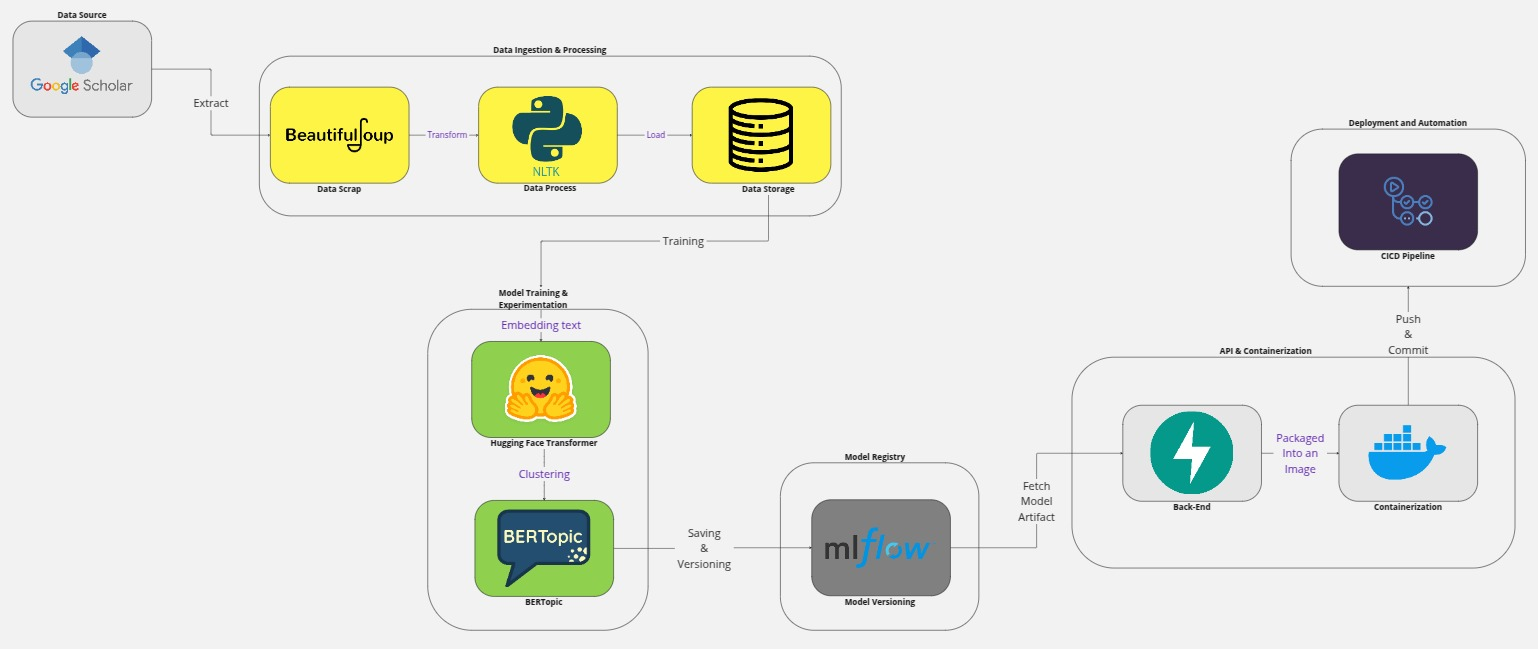
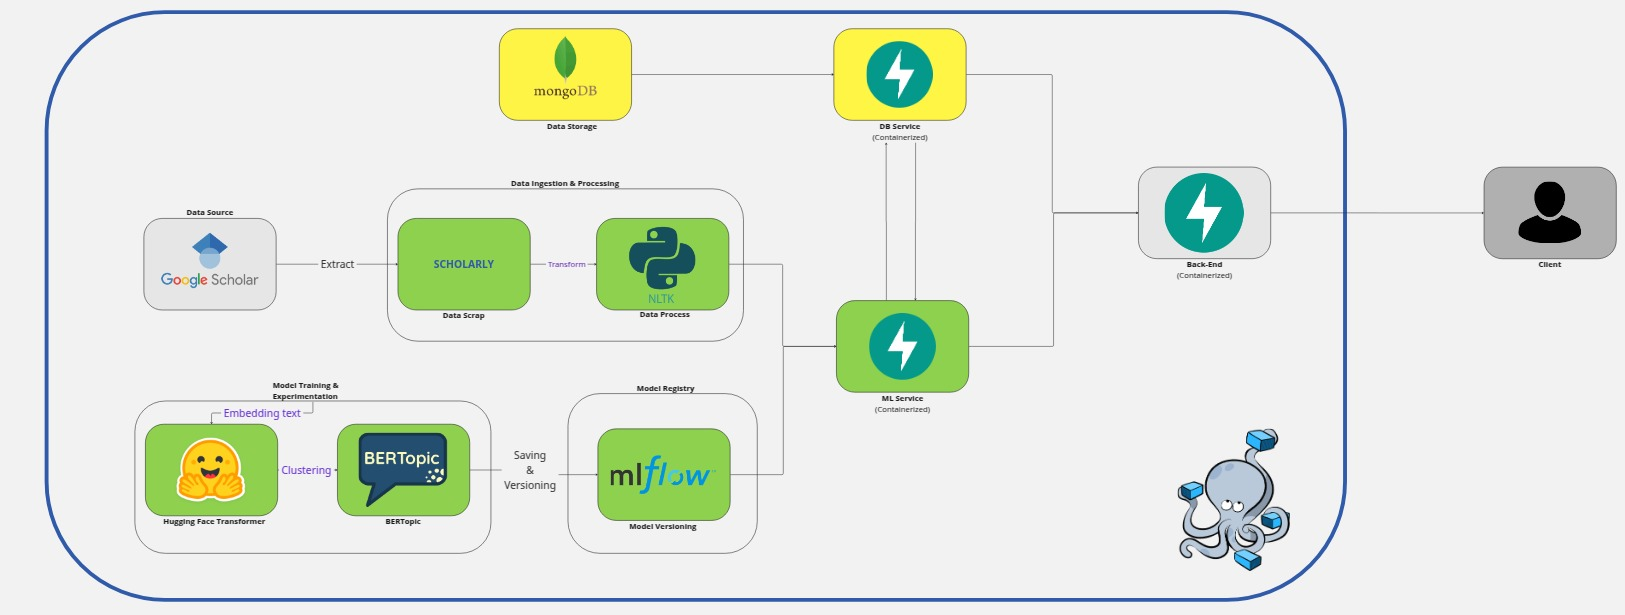
feat(readme) : updated the system architecture and added API documentation to the readme

diff --git a/README.md b/README.md
@@ -17,20 +17,43 @@ We take journal data more precisely in 2024 using sources from https://scholar.g
 **Journalyze** follows a structured directory organization to maintain clarity and modularity. Below is an overview of the project directory structure:
 <pre>
 .
+├── MLOps-Architecture.jpg
+├── Makefile
 ├── README.md
 ├── data
-│   ├── scholar_results.txt
-│   └── test_scrap.py
+│   ├── preprocessed
+│   │   ├── bert_embeddings.npy
+│   │   └── preprocessed_data.csv
+│   ├── raw
+│   │   └── hasil_topik.csv
+│   └── scholar_results.json
 ├── docker-compose.yaml
+├── init-mongo.sh
 ├── models
+│   └── bertopic_model.pkl
 ├── notebooks
 │   └── eda.ipynb
 ├── requirements.txt
-├── results
 └── src
     ├── backend
-    ├── frontend
+    │   ├── Dockerfile
+    │   ├── app
+    │   │   ├── main.py
+    │   │   └── scrap_result_model.py
+    │   └── requirements.txt
+    ├── db
+    │   ├── Dockerfile
+    │   ├── app.py
+    │   ├── mongo.py
+    │   ├── requirements.txt
+    │   └── scrap_result_model.py
     └── ml
+        ├── Dockerfile
+        ├── app.py
+        ├── pipeline.py
+        ├── preprocessed_scholar_results.json
+        ├── requirements.txt
+        └── train.py
 </pre>
 
 ## 🛠   Tools
@@ -38,7 +61,7 @@ Tools we use to develop **Journalyze**
 
 | No. | Tools                              | Function                                           |
 |-----|------------------------------------|----------------------------------------------------|
-| 1.  | **Beautifulsoup**                  | Used for scrapping journals on google scholar.     |
+| 1.  | **Scholarly**                  | Used for scrapping journals on google scholar.     |
 | 2.  | **NLTK(Natural Language Toolkit)** | Used for preprocessing the scrapped data.          |
 | 3.  | **Hugging Face Transformer**       | Used for generating text embedding.                |
 | 4.  | **BERTopic**                       | Used for clustering topics based on embeddings.    |
@@ -55,26 +78,37 @@ Follow these steps to set up and run **Journalyze** on your local machine.
    ```
 2. It's recommended to use a virtual environment to manage dependencies
 ```sh
-   python -m venv venv
-   source venv/bin/activate  # On macOS/Linux
-   venv\Scripts\activate  # On Windows
+   python -m venv myvenv
+   source myvenv/bin/activate  # On macOS/Linux
+   myvenv\Scripts\activate  # On Windows
    ```
-3. Run the following command to install all required dependencies
+3. To run the **Journalyze** service, you can simply run the magic command below:
 ```sh
-   pip install -r requirements.txt
+   make compose-up
    ```
-4. At the moment, only the scraping functionality is available. Run the following command to perform scraping
+   
+4. If you want to stop the service from running, you can run the magic command below:
 ```sh
-   python test_scrap.py
+   make compose-down
    ```
+You can see what APIs exist and want to execute them, you can see the subsections below
+
+## 🔥   API Documentation
+You can access the **Journalyze** API documentation via the link below:
+
+[Journalyze API Docs](https://ubiquitous-telegram-vxpvx46q5pvc6w7v-8010.app.github.dev/docs#/)
 
 ## 📐    Architecture
-This MLOps architecture begins with **Google Scholar** as the data source. The data is extracted using **BeautifulSoup** for web scraping, then processed with **NLTK** for text transformation. Once processed, the data is stored in a database for further use.  
+This MLOps architecture adopts a **microservices approach** using **Docker** and is orchestrated via **Docker Compose** for efficient service management and scalability.
 
-For **model training and experimentation**, the stored data is used to generate **text embeddings** with **Hugging Face Transformers**. These embeddings are then clustered using **BERTopic** to identify meaningful topics.  
+The system starts with **Google Scholar** as the primary data source. A dedicated **Data Scraping Service**, containerized using Docker, extracts scholarly data using **Scholarly (based on BeautifulSoup)**. The extracted data is then passed to the **Data Processing Service**, which applies **NLTK** for text cleaning and transformation.
 
-Once the model is trained, it is registered and versioned in **MLflow**, ensuring proper tracking of model artifacts. The stored models are then fetched by the **FastAPI backend**, which serves as an API to interact with the trained model.  
+All cleaned data is persisted into a **MongoDB database**, which is managed within its own container, handled via a **Database Service**.
 
-To enable **deployment and automation**, the backend is containerized using **Docker**. The **CI/CD pipeline** is responsible for pushing and committing changes to ensure smooth deployment and updates of the system.
+For **model training and experimentation**, the architecture includes a separate **ML Service**. This service utilizes **Hugging Face Transformers** to generate text embeddings, which are then clustered using **BERTopic** to uncover relevant research topics. Trained models and artifacts are saved and versioned through **MLflow**, which is integrated into the ML service pipeline.
+
+To expose the results and interact with external users, a standalone **Back-End Service** built with **FastAPI** serves as the gateway. It fetches trained models from the MLflow registry and responds to client requests via RESTful APIs.
+
+Each service (data scraping, processing, ML, DB, and backend) is containerized via **Dockerfiles**, and the entire system is orchestrated with **Docker Compose**, ensuring seamless inter-service communication and simplified deployment.
 
 ![](./MLOps-Architecture.jpg)
